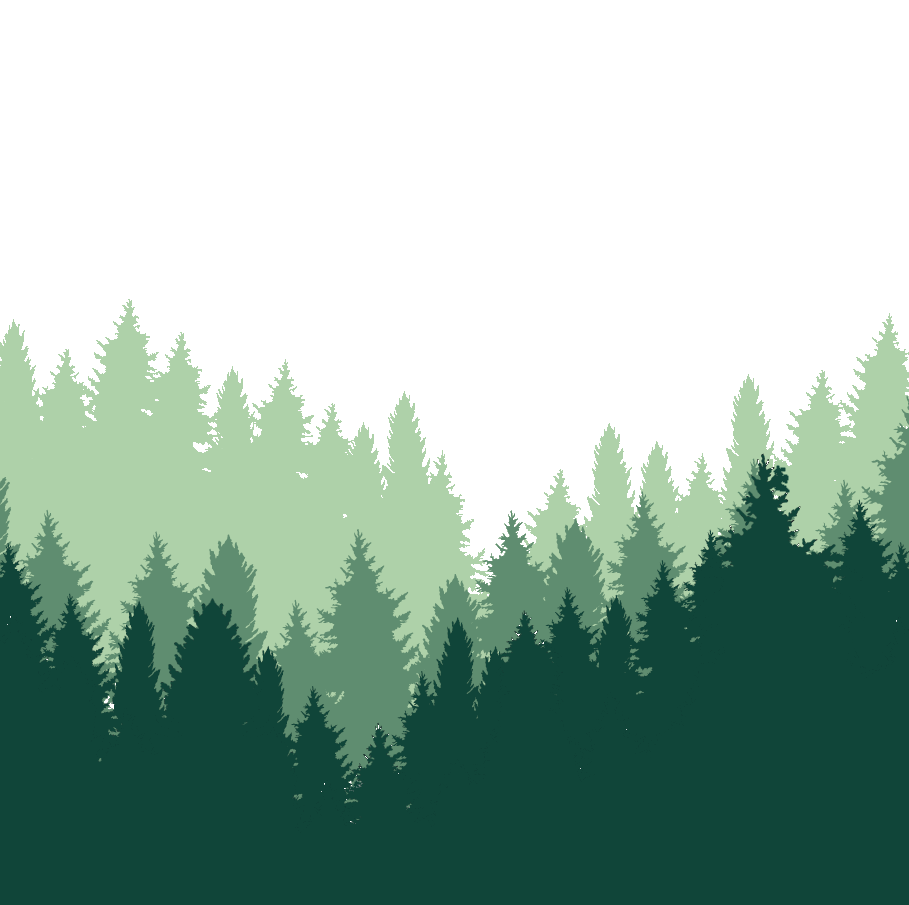
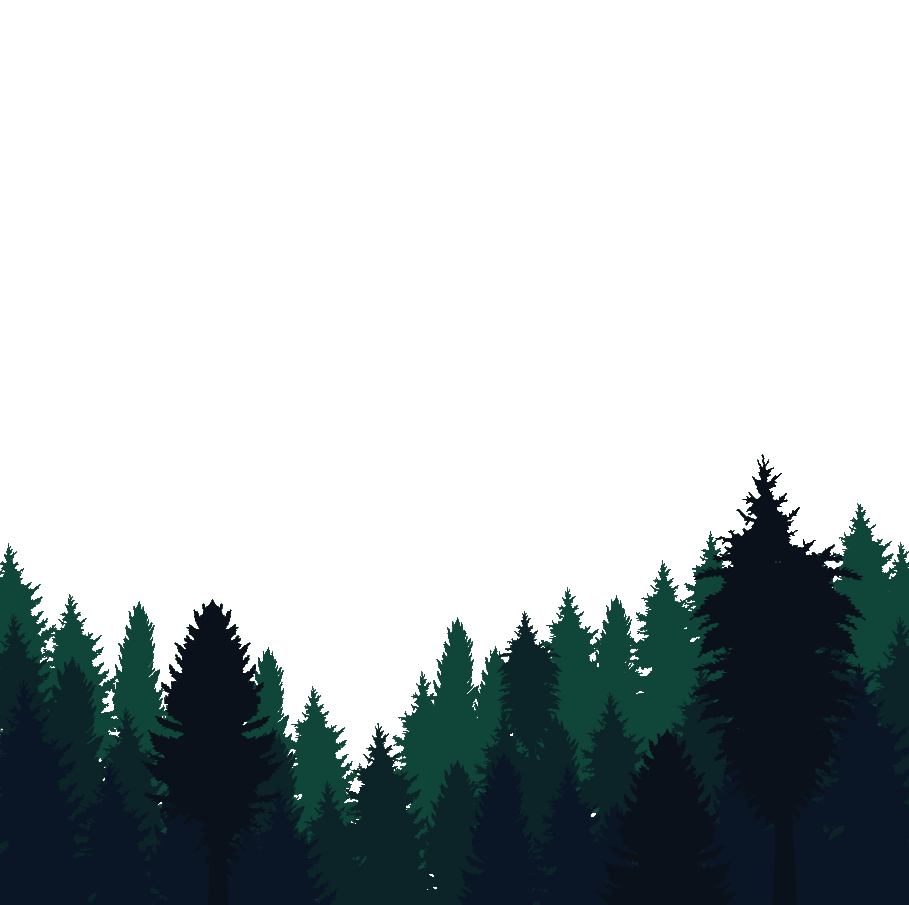
Edited code

diff --git a/assets/css/style.css b/assets/css/style.css
@@ -22,6 +22,7 @@ body, html {
 
 .menu {
 	position: fixed;
+	z-index: 10;
 	text-align: left;
 	font-weight: bolder;
 	line-height: 1.5;
@@ -67,10 +68,13 @@ body, html {
 }
 
 .aboutMeInner {
-	height: 100vh;
+	width: 100%;
+	height: 100%;
+	text-align: left;
+	display: inline-block;
 	background-color: #c2d2e9;
 	font-family: 'Permanent Marker', cursive;
-	font-size: 50px;
+	font-size: 35px;
 	color: black;
 }
 
@@ -80,12 +84,42 @@ body, html {
 
 .img_wrap img {
 	position: absolute;
-	left: 0px;
+}
+
+.layer2 {
+	z-index: 2;
 	width: 100%;
+	height: 100vh;
+	filter: blur(4px);
+}
+
+.layer3 {
+	z-index: 3;
+	width: 100%;
+	height: 100vh;
+	filter: blur(4px);
+}
+
+.layer4 {
+	z-index: 4;
+	width: 100%;
+	height: 100vh;
+	filter: blur(4px);
+}
+
+.layer5 {
+	filter: blur(4px);
+	z-index: 5;
+	width: 100%;
+	height: 100vh;
 }
 
 .aboutMeTitle {
-	padding-top: 15vh;
+	text-align: center;
+	z-index: 6;
+	font-size: 35px;
+	position: relative;
+	padding-top: 25vh;
 	letter-spacing: 0.3em;
 	-webkit-text-fill-color: transparent;
 	-webkit-text-stroke-width: 2.5px;
@@ -94,6 +128,9 @@ body, html {
 }
 
 .aboutMeText {
+	text-align: center;
+	z-index: 6;
+	position: relative;
 	font-family: 'Bad Script', cursive;
 	letter-spacing: 0.05em;
 	margin-left: 15%;

diff --git a/index.html b/index.html
@@ -41,8 +41,11 @@
     </main>
 
     <div class="aboutMeInner">
-        <div class="img_wrap"><img class="layer1" src="../personal-site/assets/images/aboutMe_bg/aboutMe_layer4.png">
-            <img class="layer2" src="../personal-site/assets/images/aboutMe_bg/aboutMe_layer5.png">
+        <div class="img_wrap">
+            <img class="layer2" src="../personal-site/assets/images/aboutMe_bg/aboutMe_layer2.png">
+            <img class="layer3" src="../personal-site/assets/images/aboutMe_bg/aboutMe_layer3.png">
+            <img class="layer4" src="../personal-site/assets/images/aboutMe_bg/aboutMe_layer4.png">
+            <img class="layer5" src="../personal-site/assets/images/aboutMe_bg/aboutMe_layer5.png">
         </div>
         <a name="aboutme"></a>
         <div class="aboutMeTitle">

diff --git a/assets/js/main.js b/assets/js/main.js
@@ -1,4 +1,4 @@
-function getGuestName() {
+/* function getGuestName() {
     let guestName = prompt("Введите ваше имя:");
 
     if (guestName == '') {
@@ -12,7 +12,7 @@ function getGuestName() {
     }
 }
 
-getGuestName();
+getGuestName(); */
 
 let menuElem = document.getElementById('contentMenu');
 let titleElem = menuElem.querySelector('.title');
